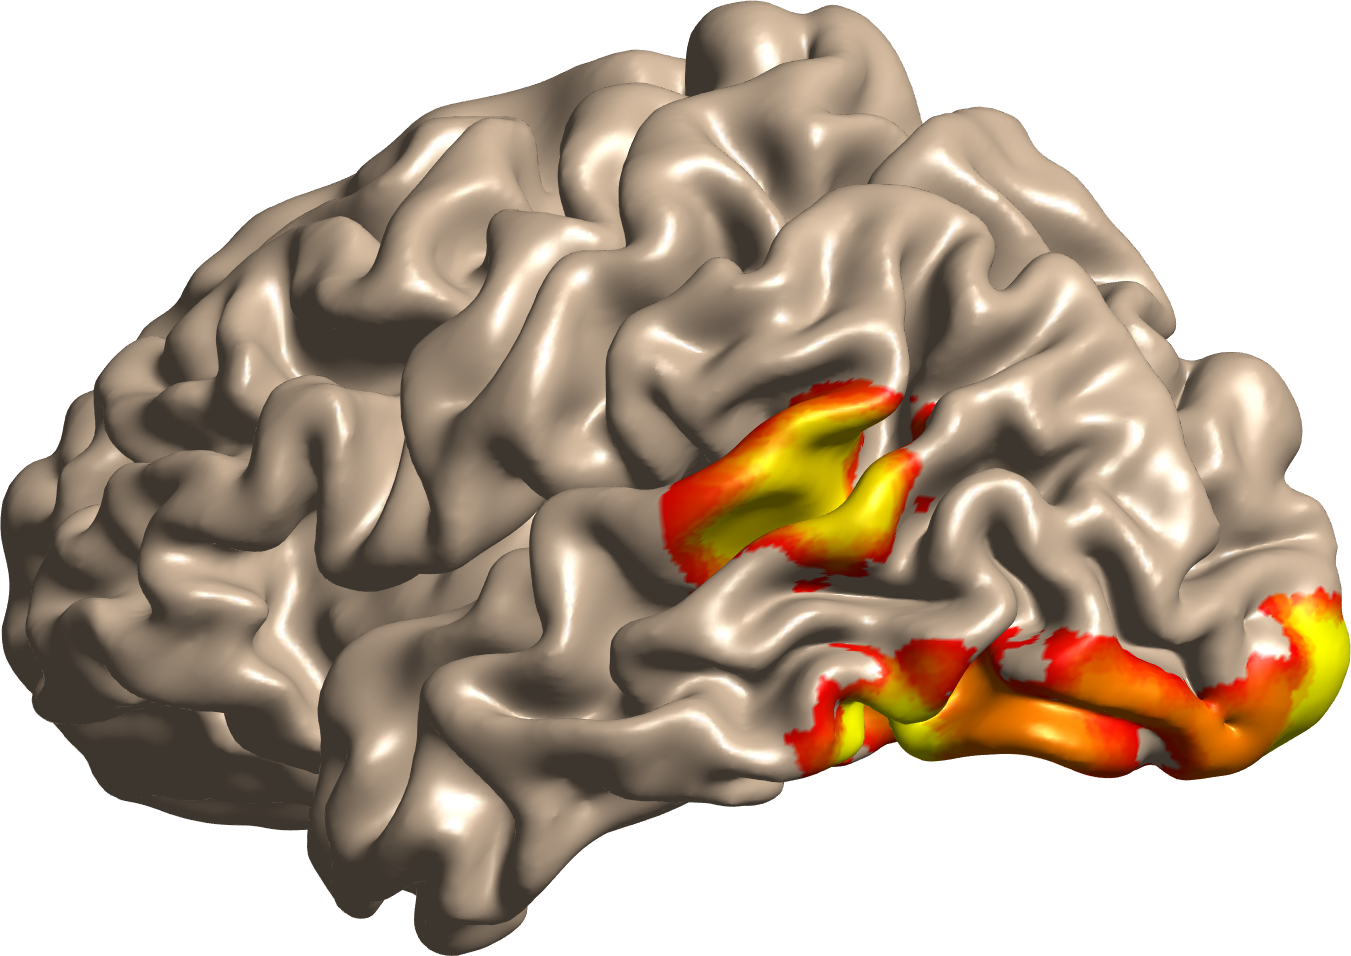
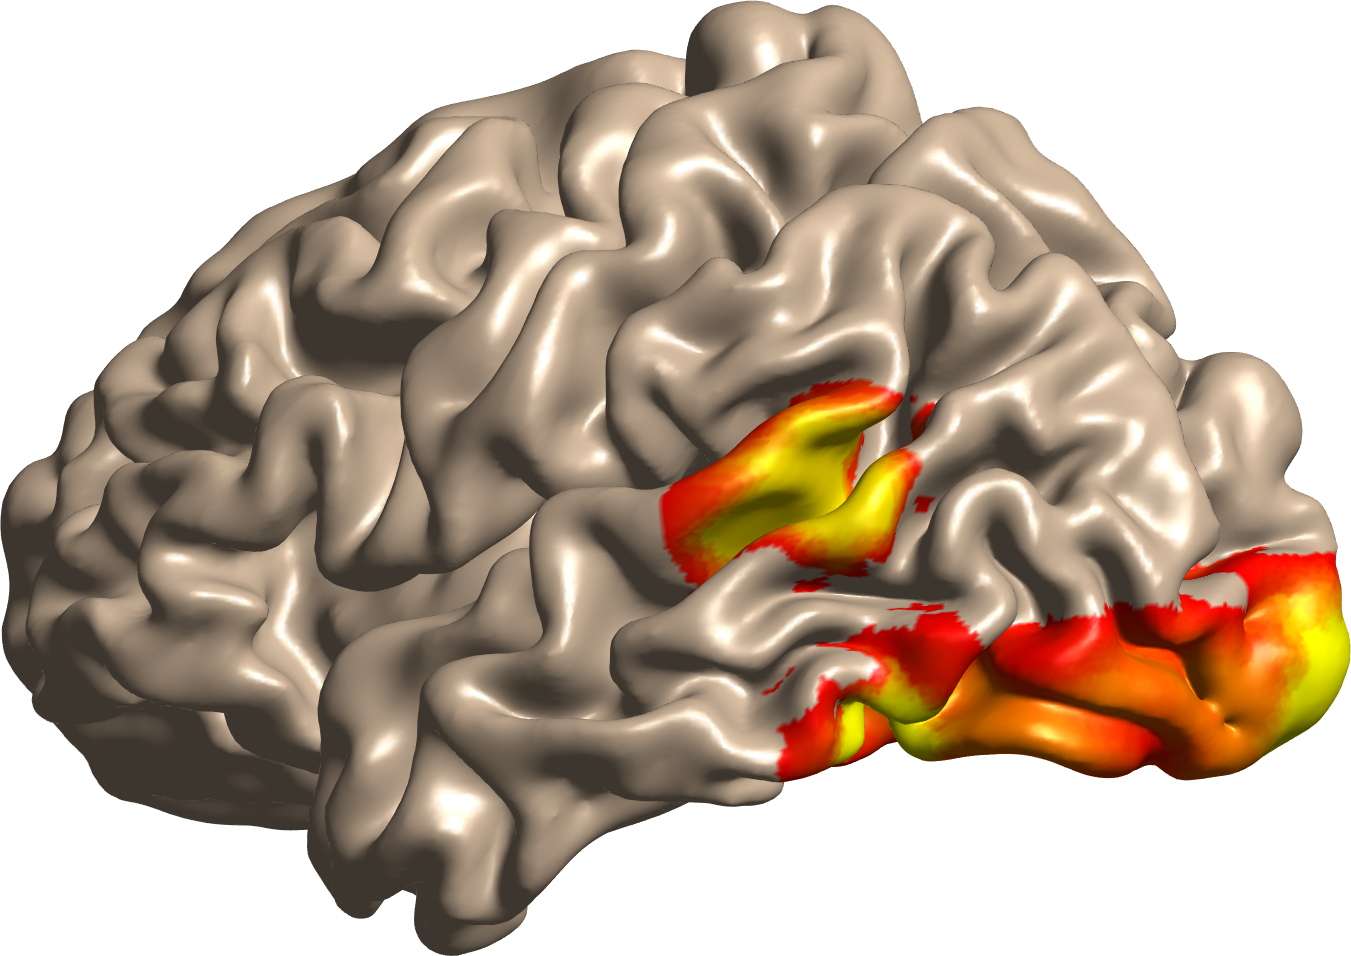
updated rois

diff --git a/mesh_overview/ReadingBrainImage.m b/mesh_overview/ReadingBrainImage.m
@@ -1,9 +1,10 @@
 t1 = niftiRead('t1_class.nii.gz');
 t1.data = t1.data==3;
 v1 = niftiRead('Occipital_Pole.nii.gz');
-v1.data(v1.data>0) = 2;
-vot = niftiRead('Ventral.nii.gz');
+v1.data(v1.data>0) = 4;
+vot = niftiRead('Ventral_larger.nii.gz');
 vwfa = niftiRead('VWFA.nii.gz');
+ips = niftiRead('IPS.nii.gz');
 
 % Temporl
 t = niftiRead('LateralTemp.nii.gz');
@@ -17,17 +18,34 @@ f.data(f.data>0)=1.6;
 f.data=smooth3(f.data,'box',5);
 
 vwfa.data(vwfa.data>0) = 2;
-v1.data=smooth3(v1.data,'box',5);
-vot.data=smooth3(vot.data,'box',5);
+v1.data=smooth3(v1.data,'box',15);
+v1.data=smooth3(v1.data,'gaussian',7);
+vot.data=smooth3(vot.data,'box',9);
+vot.data=smooth3(vot.data,'gaussian',7);
 vwfa.data = smooth3(vwfa.data,'box',5);
+
+ips.data(ips.data>0) = 2;
+ips.data = smooth3(ips.data,'box',7);
 %%
 %v1.data(t1.data==0)=0;
 msh = AFQ_meshCreate(t1,'boxfilter',5);
+
+alldata = vwfa;
+alldata.data = max(t.data + f.data, vwfa.data);
+msh_final = AFQ_meshColor(msh,'overlay', alldata, 'thresh', .01, 'crange', [.001 2], 'cmap', 'autumn')
+[~,~,lh]=AFQ_RenderCorticalSurface(msh_final)
+view(-70,-5);axis off
+camlight(lh,'infinite')
+set(gca, 'Color', 'none');export_fig('Reading_Circuitry.png','-r300','-transparent')
+
+
+% Different steps
+
 msh1 = AFQ_meshColor(msh,'overlay', v1, 'thresh', .01, 'crange', [.001 2], 'cmap', 'autumn')
 [~,~,lh]=AFQ_RenderCorticalSurface(msh1)
 view(-70,-5);axis off
 camlight(lh,'infinite')
-set(gca, 'Color', 'none');;export_fig('Reading_V1.png','-r300','-transparent')
+set(gca, 'Color', 'none');export_fig('Reading_V1.png','-r300','-transparent')
 
 vwfa.data = max(vwfa.data+vot.data,v1.data);
 msh3 = AFQ_meshColor(msh,'overlay', vwfa, 'thresh', .01, 'crange', [.001 2], 'cmap', 'autumn')
@@ -52,6 +70,14 @@ msh5 = AFQ_meshColor(msh,'overlay', f, 'thresh', .01, 'crange', [.001 2], 'cmap'
 view(-70,-5);axis off
 camlight(lh,'infinite')
 set(gca, 'Color', 'none');export_fig('Reading_frontal.png','-r300','-transparent');
+
+f.data = f.data+ips.data;
+msh6 = AFQ_meshColor(msh,'overlay', f, 'thresh', .01, 'crange', [.001 2], 'cmap', 'autumn')
+
+[~,~,lh]=AFQ_RenderCorticalSurface(msh6)
+view(-70,-5);axis off
+camlight(lh,'infinite')
+set(gca, 'Color', 'none');export_fig('Reading_withIPS.png','-r300','-transparent');
 
 %% Fibers
 arc = fgRead('L_Arcuate.pdb')
